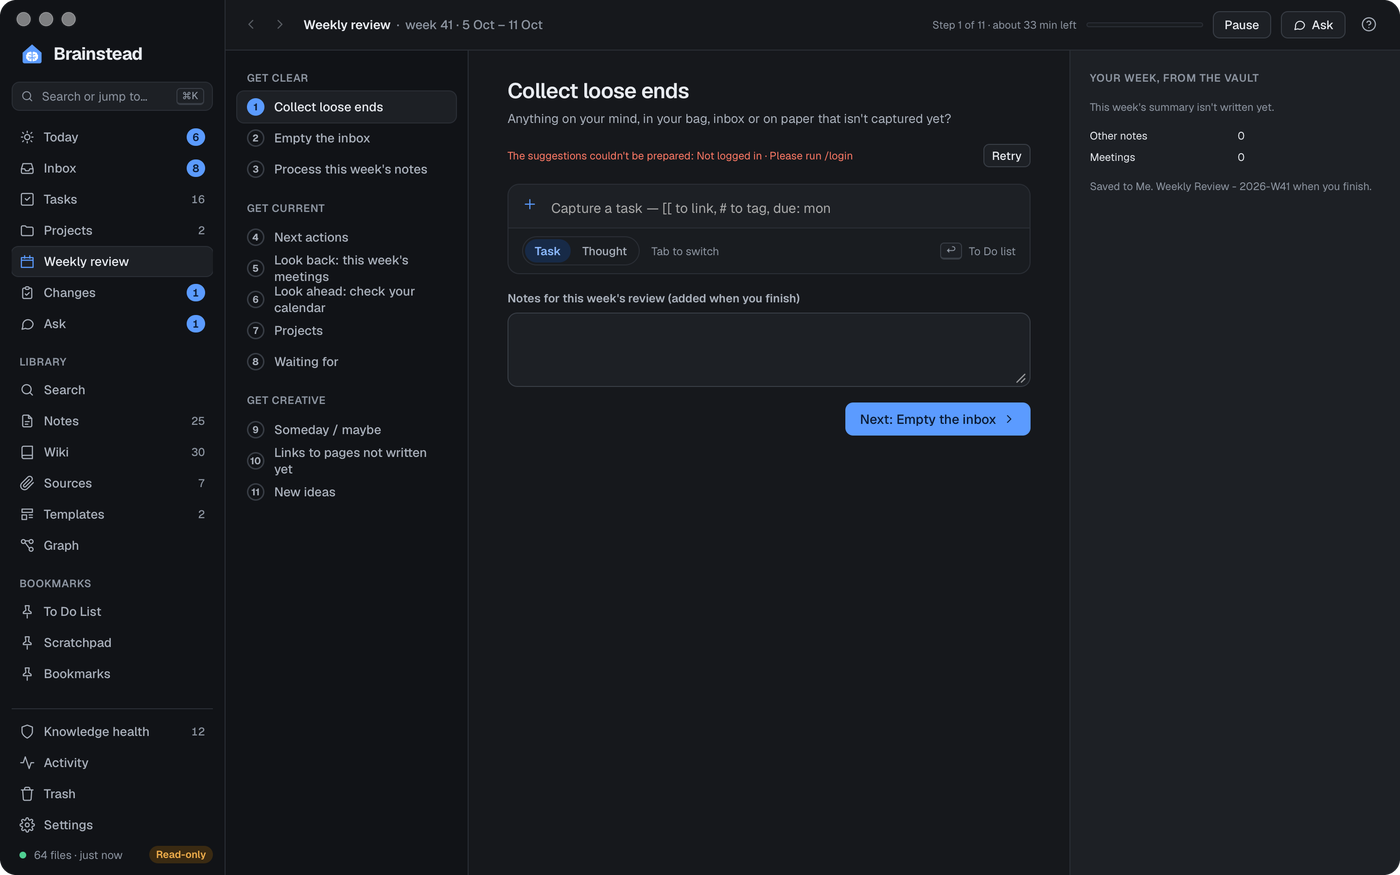
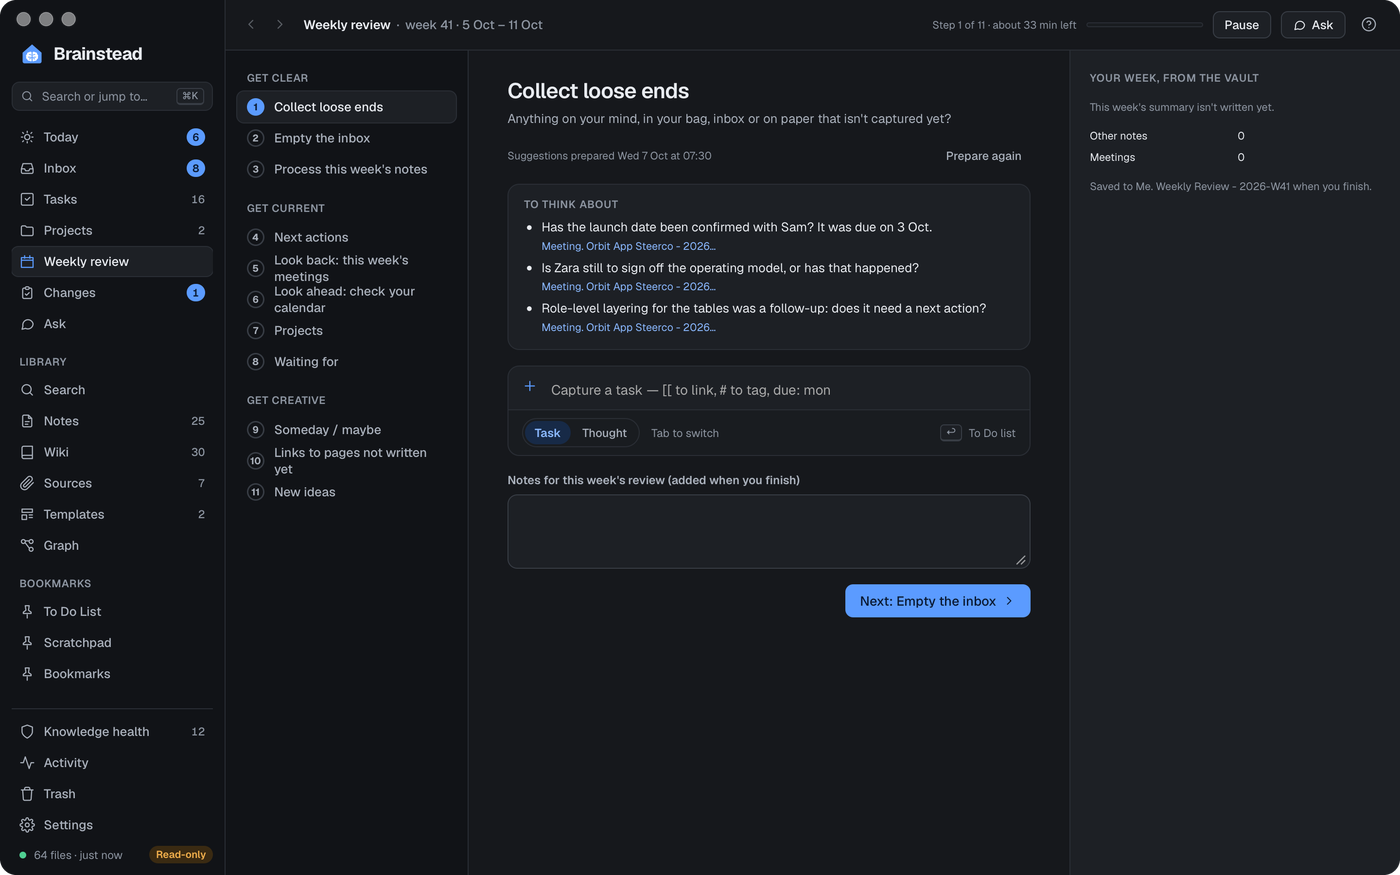
Weekly review screenshots show sample suggestions, not a sign-in error: the scene supplies them, and a screenshot run never starts a preparation

diff --git a/src/scene.ts b/src/scene.ts
@@ -11,11 +11,11 @@ import { fixNameOpen } from "./FixName";
 import { shortcutsOpen } from "./Shortcuts";
 import { helpOpen, HelpView } from "./help/HelpDrawer";
 import { readingScene } from "./speech/player";
-import type { Theme } from "./api";
+import type { Theme, WeekPrepStatus } from "./api";
 import { ask, blankChat } from "./askState";
 import { nav, Screen, SettingsPane } from "./nav";
 import { noteDialog } from "./notes/dialogs";
-import { applyTheme, settings } from "./store";
+import { applyTheme, settings, Store } from "./store";
 
 export interface Scene {
   name?: string;
@@ -54,6 +54,8 @@ export interface Scene {
   view?: Record<string, unknown>;
   /** For "ask": show a sample chat. */
   chat?: boolean;
+  /** For "weekly": sample suggestions for the week, instead of preparing them. */
+  weekprep?: boolean;
   /** A task's menu open, by its `path:line` (the task list's key). */
   taskMenu?: string;
   /** A toast to show, with an Undo button. */
@@ -91,6 +93,48 @@ function sampleChat() {
   };
 }
 
+/** The weekly review's scene suggestions are on (`weekprep`). */
+export const scenePrep = new Store(false);
+
+/** The weekly scene's suggestions: prompts from the fixture vault's Steerco note. */
+export function samplePrep(week: string): WeekPrepStatus {
+  const steerco = "Meeting. Orbit App Steerco - 2026-09-30.md";
+  const prompt = (id: string, step: "loose" | "creative", text: string, quote: string) => ({
+    id,
+    step,
+    text,
+    source: { path: steerco, quote },
+    action: null,
+  });
+  return {
+    running: false,
+    error: null,
+    prep: {
+      week,
+      preparedAt: `${new Date().toISOString().slice(0, 10)}T07:30:00`,
+      model: "claude:sonnet",
+      stamp: "scene",
+      dropped: 0,
+      suggestions: [
+        prompt("s1", "loose", "Has the launch date been confirmed with Sam? It was due on 3 Oct.", "Confirm the launch date with Sam"),
+        prompt(
+          "s2",
+          "loose",
+          "Is Zara still to sign off the operating model, or has that happened?",
+          "Zara to sign off the operating model",
+        ),
+        prompt(
+          "s3",
+          "loose",
+          "Role-level layering for the tables was a follow-up: does it need a next action?",
+          "Role-level layering for the tables",
+        ),
+        prompt("s4", "creative", "The learning budget has sat in Someday for a while: is now the time?", "Learning budget"),
+      ],
+    },
+  };
+}
+
 export function parseScene(json: string | null): Scene | null {
   if (!json) return null;
   try {
@@ -122,6 +166,7 @@ export function applyScene(sc: Scene) {
   // Fix name: `q` the name as written, `title` the right one.
   if (sc.dialog === "shortcuts") shortcutsOpen.set(true);
   if (sc.dialog === "fix-name") fixNameOpen.set({ wrong: sc.q, right: sc.title });
+  if (sc.weekprep) scenePrep.set(true);
   if (sc.chat) ask.set({ chats: [sampleChat()], active: "scene" });
   if (sc.help) helpOpen.set(sc.help);
   if (sc.reading) readingScene.set(sc.reading);

diff --git a/src/Weekly.tsx b/src/Weekly.tsx
@@ -17,6 +17,7 @@ import { Icon } from "./icons";
 import { Markdown } from "./md/Markdown";
 import { localToday } from "./md/taskQuery";
 import { nav, openDoc, useViewState } from "./nav";
+import { samplePrep, scenePrep } from "./scene";
 import { settings, useStore } from "./store";
 import { TaskList, TasksFailed } from "./TaskList";
 import { reportEditError, tasksFailed, useAllTasks, viewRows, VIEWS } from "./taskModel";
@@ -182,6 +183,11 @@ export function WeeklyScreen() {
   // only shows how they stand.
   useEffect(() => {
     if (!week) return;
+    // Screenshot mode: the scene's sample suggestions, nothing prepared.
+    if (scenePrep.get()) {
+      setPrep(samplePrep(week));
+      return;
+    }
     const load = () =>
       void api
         .weekprepStatus(week)

diff --git a/src-tauri/src/weekprep.rs b/src-tauri/src/weekprep.rs
@@ -238,6 +238,10 @@ pub fn weekprep_run(app: AppHandle, week: Option<String>) -> Result<String, Stri
 #[tauri::command]
 pub async fn weekprep_ensure(app: AppHandle, week: String) -> Result<bool, String> {
     prep::week_window(&week)?;
+    // Screenshot mode runs no assistant.
+    if crate::scene().is_some() {
+        return Ok(false);
+    }
     tauri::async_runtime::spawn_blocking(move || ensure(&app, &week, "start")).await.map_err(|e| e.to_string())?
 }
 
